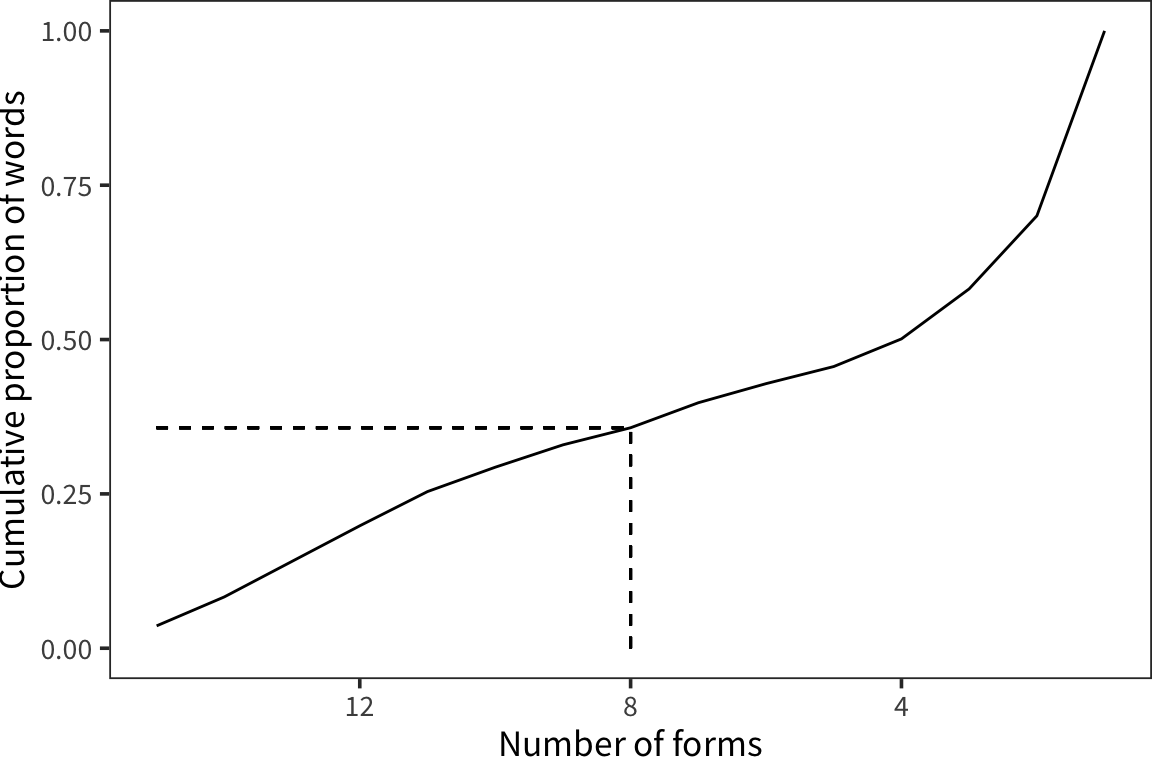
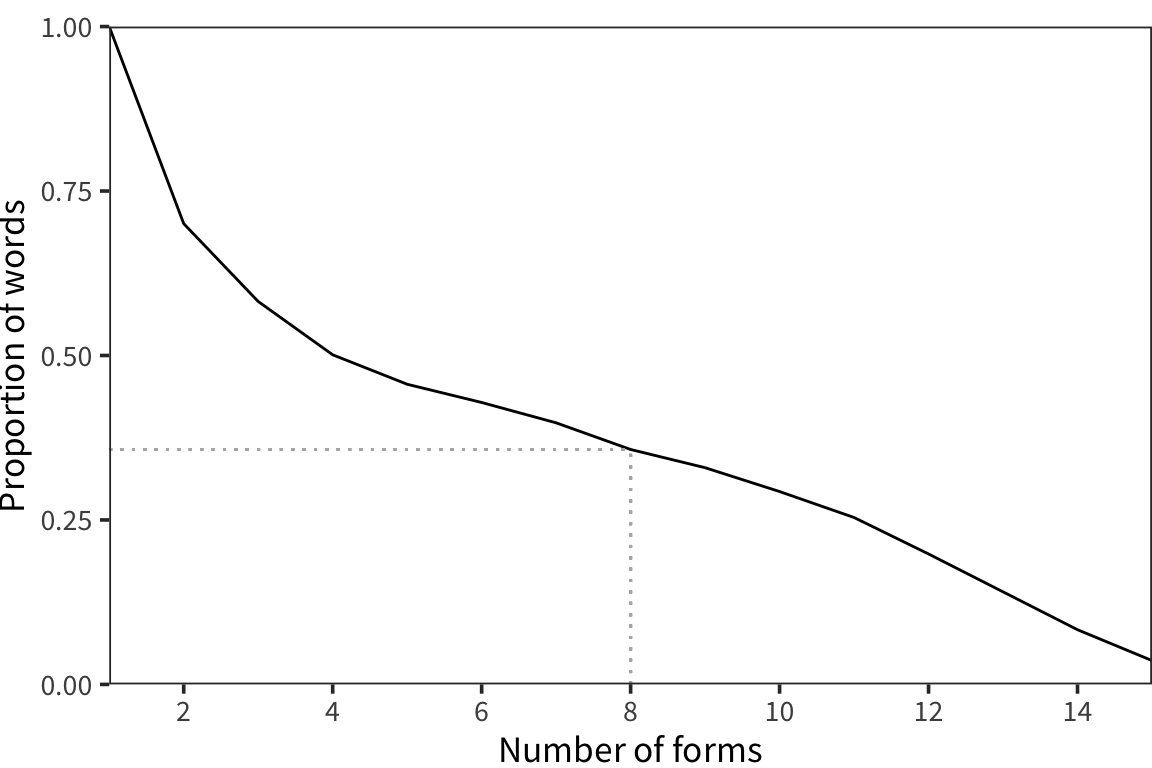
fix #68

diff --git a/docs/items-consistency.html b/docs/items-consistency.html
@@ -102,22 +102,23 @@
 </ul></li>
 <li class="chapter" data-level="2.4" data-path="intro-practical.html"><a href="intro-practical.html#wordbank"><i class="fa fa-check"></i><b>2.4</b> Wordbank</a></li>
 </ul></li>
-<li class="chapter" data-level="3" data-path="methods.html"><a href="methods.html"><i class="fa fa-check"></i><b>3</b> Methods and Data</a><ul>
-<li class="chapter" data-level="3.1" data-path="methods.html"><a href="methods.html#database"><i class="fa fa-check"></i><b>3.1</b> Database</a><ul>
-<li class="chapter" data-level="3.1.1" data-path="methods.html"><a href="methods.html#database-architecture"><i class="fa fa-check"></i><b>3.1.1</b> Database architecture</a></li>
-<li class="chapter" data-level="3.1.2" data-path="methods.html"><a href="methods.html#implementation"><i class="fa fa-check"></i><b>3.1.2</b> Implementation</a></li>
-<li class="chapter" data-level="3.1.3" data-path="methods.html"><a href="methods.html#the-wordbankr-api"><i class="fa fa-check"></i><b>3.1.3</b> The <code>wordbankr</code> API</a></li>
-<li class="chapter" data-level="3.1.4" data-path="methods.html"><a href="methods.html#unilemmas-cross-linguistic-conceptual-mappings"><i class="fa fa-check"></i><b>3.1.4</b> “Unilemmas”: cross-linguistic conceptual mappings</a></li>
-<li class="chapter" data-level="3.1.5" data-path="methods.html"><a href="methods.html#a-note-on-age"><i class="fa fa-check"></i><b>3.1.5</b> A note on age</a></li>
+<li class="chapter" data-level="3" data-path="methods-and-data.html"><a href="methods-and-data.html"><i class="fa fa-check"></i><b>3</b> Methods and Data</a><ul>
+<li class="chapter" data-level="3.1" data-path="methods-and-data.html"><a href="methods-and-data.html#database"><i class="fa fa-check"></i><b>3.1</b> Database</a><ul>
+<li class="chapter" data-level="3.1.1" data-path="methods-and-data.html"><a href="methods-and-data.html#database-architecture"><i class="fa fa-check"></i><b>3.1.1</b> Database architecture</a></li>
+<li class="chapter" data-level="3.1.2" data-path="methods-and-data.html"><a href="methods-and-data.html#implementation"><i class="fa fa-check"></i><b>3.1.2</b> Implementation</a></li>
+<li class="chapter" data-level="3.1.3" data-path="methods-and-data.html"><a href="methods-and-data.html#the-web-interface"><i class="fa fa-check"></i><b>3.1.3</b> The web interface</a></li>
+<li class="chapter" data-level="3.1.4" data-path="methods-and-data.html"><a href="methods-and-data.html#the-wordbankr-api"><i class="fa fa-check"></i><b>3.1.4</b> The <code>wordbankr</code> API</a></li>
+<li class="chapter" data-level="3.1.5" data-path="methods-and-data.html"><a href="methods-and-data.html#unilemmas-cross-linguistic-conceptual-mappings"><i class="fa fa-check"></i><b>3.1.5</b> “Unilemmas”: cross-linguistic conceptual mappings</a></li>
+<li class="chapter" data-level="3.1.6" data-path="methods-and-data.html"><a href="methods-and-data.html#a-note-on-age"><i class="fa fa-check"></i><b>3.1.6</b> A note on age</a></li>
 </ul></li>
-<li class="chapter" data-level="3.2" data-path="methods.html"><a href="methods.html#datasets"><i class="fa fa-check"></i><b>3.2</b> Datasets</a><ul>
-<li class="chapter" data-level="3.2.1" data-path="methods.html"><a href="methods.html#data-provenance"><i class="fa fa-check"></i><b>3.2.1</b> Data provenance</a></li>
-<li class="chapter" data-level="3.2.2" data-path="methods.html"><a href="methods.html#overview-of-the-data"><i class="fa fa-check"></i><b>3.2.2</b> Overview of the data</a></li>
-<li class="chapter" data-level="3.2.3" data-path="methods.html"><a href="methods.html#administration-details"><i class="fa fa-check"></i><b>3.2.3</b> Administration details</a></li>
-<li class="chapter" data-level="3.2.4" data-path="methods.html"><a href="methods.html#demographic-details"><i class="fa fa-check"></i><b>3.2.4</b> Demographic details</a></li>
-<li class="chapter" data-level="3.2.5" data-path="methods.html"><a href="methods.html#longitudinal-vs.cross-sectional-data"><i class="fa fa-check"></i><b>3.2.5</b> Longitudinal vs. cross-sectional data</a></li>
-<li class="chapter" data-level="3.2.6" data-path="methods.html"><a href="methods.html#difficult-datasets"><i class="fa fa-check"></i><b>3.2.6</b> Difficult datasets</a></li>
-<li class="chapter" data-level="3.2.7" data-path="methods.html"><a href="methods.html#conclusions"><i class="fa fa-check"></i><b>3.2.7</b> Conclusions</a></li>
+<li class="chapter" data-level="3.2" data-path="methods-and-data.html"><a href="methods-and-data.html#datasets"><i class="fa fa-check"></i><b>3.2</b> Datasets</a><ul>
+<li class="chapter" data-level="3.2.1" data-path="methods-and-data.html"><a href="methods-and-data.html#data-provenance"><i class="fa fa-check"></i><b>3.2.1</b> Data provenance</a></li>
+<li class="chapter" data-level="3.2.2" data-path="methods-and-data.html"><a href="methods-and-data.html#overview-of-the-data"><i class="fa fa-check"></i><b>3.2.2</b> Overview of the data</a></li>
+<li class="chapter" data-level="3.2.3" data-path="methods-and-data.html"><a href="methods-and-data.html#administration-details"><i class="fa fa-check"></i><b>3.2.3</b> Administration details</a></li>
+<li class="chapter" data-level="3.2.4" data-path="methods-and-data.html"><a href="methods-and-data.html#demographic-details"><i class="fa fa-check"></i><b>3.2.4</b> Demographic details</a></li>
+<li class="chapter" data-level="3.2.5" data-path="methods-and-data.html"><a href="methods-and-data.html#longitudinal-vs.cross-sectional-data"><i class="fa fa-check"></i><b>3.2.5</b> Longitudinal vs. cross-sectional data</a></li>
+<li class="chapter" data-level="3.2.6" data-path="methods-and-data.html"><a href="methods-and-data.html#difficult-datasets"><i class="fa fa-check"></i><b>3.2.6</b> Difficult datasets</a></li>
+<li class="chapter" data-level="3.2.7" data-path="methods-and-data.html"><a href="methods-and-data.html#conclusions"><i class="fa fa-check"></i><b>3.2.7</b> Conclusions</a></li>
 </ul></li>
 </ul></li>
 <li class="chapter" data-level="4" data-path="psychometrics.html"><a href="psychometrics.html"><i class="fa fa-check"></i><b>4</b> Measurement Properties of the CDI</a><ul>
@@ -179,7 +180,7 @@
 <li class="chapter" data-level="8.5" data-path="items-consistency.html"><a href="items-consistency.html#conclusions-3"><i class="fa fa-check"></i><b>8.5</b> Conclusions</a></li>
 </ul></li>
 <li class="chapter" data-level="9" data-path="items-demographics.html"><a href="items-demographics.html"><i class="fa fa-check"></i><b>9</b> Demographic Variation in Individual Words</a><ul>
-<li class="chapter" data-level="9.1" data-path="items-demographics.html"><a href="items-demographics.html#methods-1"><i class="fa fa-check"></i><b>9.1</b> Methods</a><ul>
+<li class="chapter" data-level="9.1" data-path="items-demographics.html"><a href="items-demographics.html#methods"><i class="fa fa-check"></i><b>9.1</b> Methods</a><ul>
 <li class="chapter" data-level="9.1.1" data-path="items-demographics.html"><a href="items-demographics.html#data"><i class="fa fa-check"></i><b>9.1.1</b> Data</a></li>
 <li class="chapter" data-level="9.1.2" data-path="items-demographics.html"><a href="items-demographics.html#models"><i class="fa fa-check"></i><b>9.1.2</b> Models</a></li>
 </ul></li>
@@ -192,7 +193,7 @@
 <li class="chapter" data-level="9.3" data-path="items-demographics.html"><a href="items-demographics.html#conclusions-4"><i class="fa fa-check"></i><b>9.3</b> Conclusions</a></li>
 </ul></li>
 <li class="chapter" data-level="10" data-path="items-prediction.html"><a href="items-prediction.html"><i class="fa fa-check"></i><b>10</b> Predictive Models of Individual Words</a><ul>
-<li class="chapter" data-level="10.1" data-path="items-prediction.html"><a href="items-prediction.html#methods-2"><i class="fa fa-check"></i><b>10.1</b> Methods</a><ul>
+<li class="chapter" data-level="10.1" data-path="items-prediction.html"><a href="items-prediction.html#methods-1"><i class="fa fa-check"></i><b>10.1</b> Methods</a><ul>
 <li class="chapter" data-level="10.1.1" data-path="items-prediction.html"><a href="items-prediction.html#acquisition-trajectories"><i class="fa fa-check"></i><b>10.1.1</b> Acquisition trajectories</a></li>
 <li class="chapter" data-level="10.1.2" data-path="items-prediction.html"><a href="items-prediction.html#word-properties"><i class="fa fa-check"></i><b>10.1.2</b> Word properties</a></li>
 <li class="chapter" data-level="10.1.3" data-path="items-prediction.html"><a href="items-prediction.html#analysis"><i class="fa fa-check"></i><b>10.1.3</b> Analysis</a></li>
@@ -202,7 +203,7 @@
 </ul></li>
 <li class="chapter" data-level="11" data-path="categories-syntactic.html"><a href="categories-syntactic.html"><i class="fa fa-check"></i><b>11</b> Vocabulary Composition: Syntactic</a><ul>
 <li class="chapter" data-level="11.1" data-path="categories-syntactic.html"><a href="categories-syntactic.html#introduction"><i class="fa fa-check"></i><b>11.1</b> Introduction</a></li>
-<li class="chapter" data-level="11.2" data-path="categories-syntactic.html"><a href="categories-syntactic.html#methods-and-data"><i class="fa fa-check"></i><b>11.2</b> Methods and data</a></li>
+<li class="chapter" data-level="11.2" data-path="categories-syntactic.html"><a href="categories-syntactic.html#methods-and-data-1"><i class="fa fa-check"></i><b>11.2</b> Methods and data</a></li>
 <li class="chapter" data-level="11.3" data-path="categories-syntactic.html"><a href="categories-syntactic.html#results-2"><i class="fa fa-check"></i><b>11.3</b> Results</a><ul>
 <li class="chapter" data-level="11.3.1" data-path="categories-syntactic.html"><a href="categories-syntactic.html#comprehension-wg-3"><i class="fa fa-check"></i><b>11.3.1</b> Comprehension (WG)</a></li>
 <li class="chapter" data-level="11.3.2" data-path="categories-syntactic.html"><a href="categories-syntactic.html#production-ws-3"><i class="fa fa-check"></i><b>11.3.2</b> Production (WS)</a></li>
@@ -226,7 +227,7 @@
 </ul></li>
 <li class="chapter" data-level="13" data-path="grammar.html"><a href="grammar.html"><i class="fa fa-check"></i><b>13</b> Morphology, Grammar, and the Lexicon</a><ul>
 <li class="chapter" data-level="13.1" data-path="grammar.html"><a href="grammar.html#introduction-1"><i class="fa fa-check"></i><b>13.1</b> Introduction</a></li>
-<li class="chapter" data-level="13.2" data-path="grammar.html"><a href="grammar.html#methods-3"><i class="fa fa-check"></i><b>13.2</b> Methods</a></li>
+<li class="chapter" data-level="13.2" data-path="grammar.html"><a href="grammar.html#methods-2"><i class="fa fa-check"></i><b>13.2</b> Methods</a></li>
 <li class="chapter" data-level="13.3" data-path="grammar.html"><a href="grammar.html#results-3"><i class="fa fa-check"></i><b>13.3</b> Results</a><ul>
 <li class="chapter" data-level="13.3.1" data-path="grammar.html"><a href="grammar.html#combine"><i class="fa fa-check"></i><b>13.3.1</b> Combine</a></li>
 <li class="chapter" data-level="13.3.2" data-path="grammar.html"><a href="grammar.html#grammar-and-lexicon-relationship"><i class="fa fa-check"></i><b>13.3.2</b> Grammar and lexicon relationship</a></li>
@@ -242,7 +243,7 @@
 <li class="chapter" data-level="14.4" data-path="style.html"><a href="style.html#discussion-8"><i class="fa fa-check"></i><b>14.4</b> Discussion</a></li>
 </ul></li>
 <li class="chapter" data-level="15" data-path="conclusion-consistency.html"><a href="conclusion-consistency.html"><i class="fa fa-check"></i><b>15</b> Variability and Consistency</a><ul>
-<li class="chapter" data-level="15.1" data-path="conclusion-consistency.html"><a href="conclusion-consistency.html#methods-4"><i class="fa fa-check"></i><b>15.1</b> Methods</a></li>
+<li class="chapter" data-level="15.1" data-path="conclusion-consistency.html"><a href="conclusion-consistency.html#methods-3"><i class="fa fa-check"></i><b>15.1</b> Methods</a></li>
 <li class="chapter" data-level="15.2" data-path="conclusion-consistency.html"><a href="conclusion-consistency.html#results-and-discussion"><i class="fa fa-check"></i><b>15.2</b> Results and discussion</a></li>
 </ul></li>
 <li class="chapter" data-level="16" data-path="conclusion-scale.html"><a href="conclusion-scale.html"><i class="fa fa-check"></i><b>16</b> Language Development at Scale</a><ul>
@@ -260,7 +261,13 @@
 <li class="chapter" data-level="16.4" data-path="conclusion-scale.html"><a href="conclusion-scale.html#conclusions-5"><i class="fa fa-check"></i><b>16.4</b> Conclusions</a></li>
 </ul></li>
 <li class="chapter" data-level="17" data-path="conclusion-beyond-cdi.html"><a href="conclusion-beyond-cdi.html"><i class="fa fa-check"></i><b>17</b> Beyond the CDI</a><ul>
-<li class="chapter" data-level="17.1" data-path="conclusion-beyond-cdi.html"><a href="conclusion-beyond-cdi.html#methodological-morals"><i class="fa fa-check"></i><b>17.1</b> Methodological morals</a></li>
+<li class="chapter" data-level="17.1" data-path="conclusion-beyond-cdi.html"><a href="conclusion-beyond-cdi.html#limitations-of-the-cdi"><i class="fa fa-check"></i><b>17.1</b> Limitations of the CDI</a></li>
+<li class="chapter" data-level="17.2" data-path="conclusion-beyond-cdi.html"><a href="conclusion-beyond-cdi.html#what-comes-next"><i class="fa fa-check"></i><b>17.2</b> What comes next?</a><ul>
+<li class="chapter" data-level="17.2.1" data-path="conclusion-beyond-cdi.html"><a href="conclusion-beyond-cdi.html#web-based-assessment"><i class="fa fa-check"></i><b>17.2.1</b> Web-based assessment</a></li>
+<li class="chapter" data-level="17.2.2" data-path="conclusion-beyond-cdi.html"><a href="conclusion-beyond-cdi.html#adaptive-approaches"><i class="fa fa-check"></i><b>17.2.2</b> Adaptive approaches</a></li>
+<li class="chapter" data-level="17.2.3" data-path="conclusion-beyond-cdi.html"><a href="conclusion-beyond-cdi.html#app-based-approaches"><i class="fa fa-check"></i><b>17.2.3</b> App-based approaches</a></li>
+</ul></li>
+<li class="chapter" data-level="17.3" data-path="conclusion-beyond-cdi.html"><a href="conclusion-beyond-cdi.html#methodological-morals"><i class="fa fa-check"></i><b>17.3</b> Methodological morals</a></li>
 </ul></li>
 <li class="appendix"><span><b>Appendices</b></span></li>
 <li class="chapter" data-level="A" data-path="appendix-data.html"><a href="appendix-data.html"><i class="fa fa-check"></i><b>A</b> Individual Datasets</a></li>
@@ -292,9 +299,9 @@
 <p>To estimate the similarity of each item’s trajectory, we use a single measure of its difficulty: age of acquisition (AoA) — the age at which 50% of children in each language are estimated to have acquired it (Appendix <a href="appendix-aoa.html#appendix-aoa">D</a>). We analyzed consistency in both comprehension and production, with production ages of acquisition estimated by stitching across both forms. Consequently, we analyzed only the 29 languages for which data for both forms was available.</p>
 <p>In total, we estimated ages of acquisition for 945 total words spread across the 29 languages. Unfortunately, not every word appeared on all forms. Figure <a href="items-consistency.html#fig:items-uni-lemma-completeness-figure">8.1</a> shows the cumulative proportion of forms on which every word appears. For our consistency analysis, we considered only the 335 words that appeared in at least 8 of the 15 languages.</p>
 <div class="figure" style="text-align: center"><span id="fig:items-uni-lemma-completeness-figure"></span>
-<img src="wordbank-book_files/figure-html/items-uni-lemma-completeness-figure-1.png" alt="The proportion of words found on a given number of language's CDI forms. The dashed line shows the cutoff value we chose." width="576" />
+<img src="wordbank-book_files/figure-html/items-uni-lemma-completeness-figure-1.png" alt="The proportion of words found on at least each of a number of languages' CDI forms (e.g. all words appear on at least one form, 111 words appear on at least 2 forms, and so on, with 34 words appearing on all 15 languages' forms). The dotted line shows the cutoff value we chose (8)." width="576" />
 <p class="caption">
-Figure 8.1: The proportion of words found on a given number of language’s CDI forms. The dashed line shows the cutoff value we chose.
+Figure 8.1: The proportion of words found on at least each of a number of languages’ CDI forms (e.g. all words appear on at least one form, 111 words appear on at least 2 forms, and so on, with 34 words appearing on all 15 languages’ forms). The dotted line shows the cutoff value we chose (8).
 </p>
 </div>
 <div id="the-first-10-words" class="section level2">
